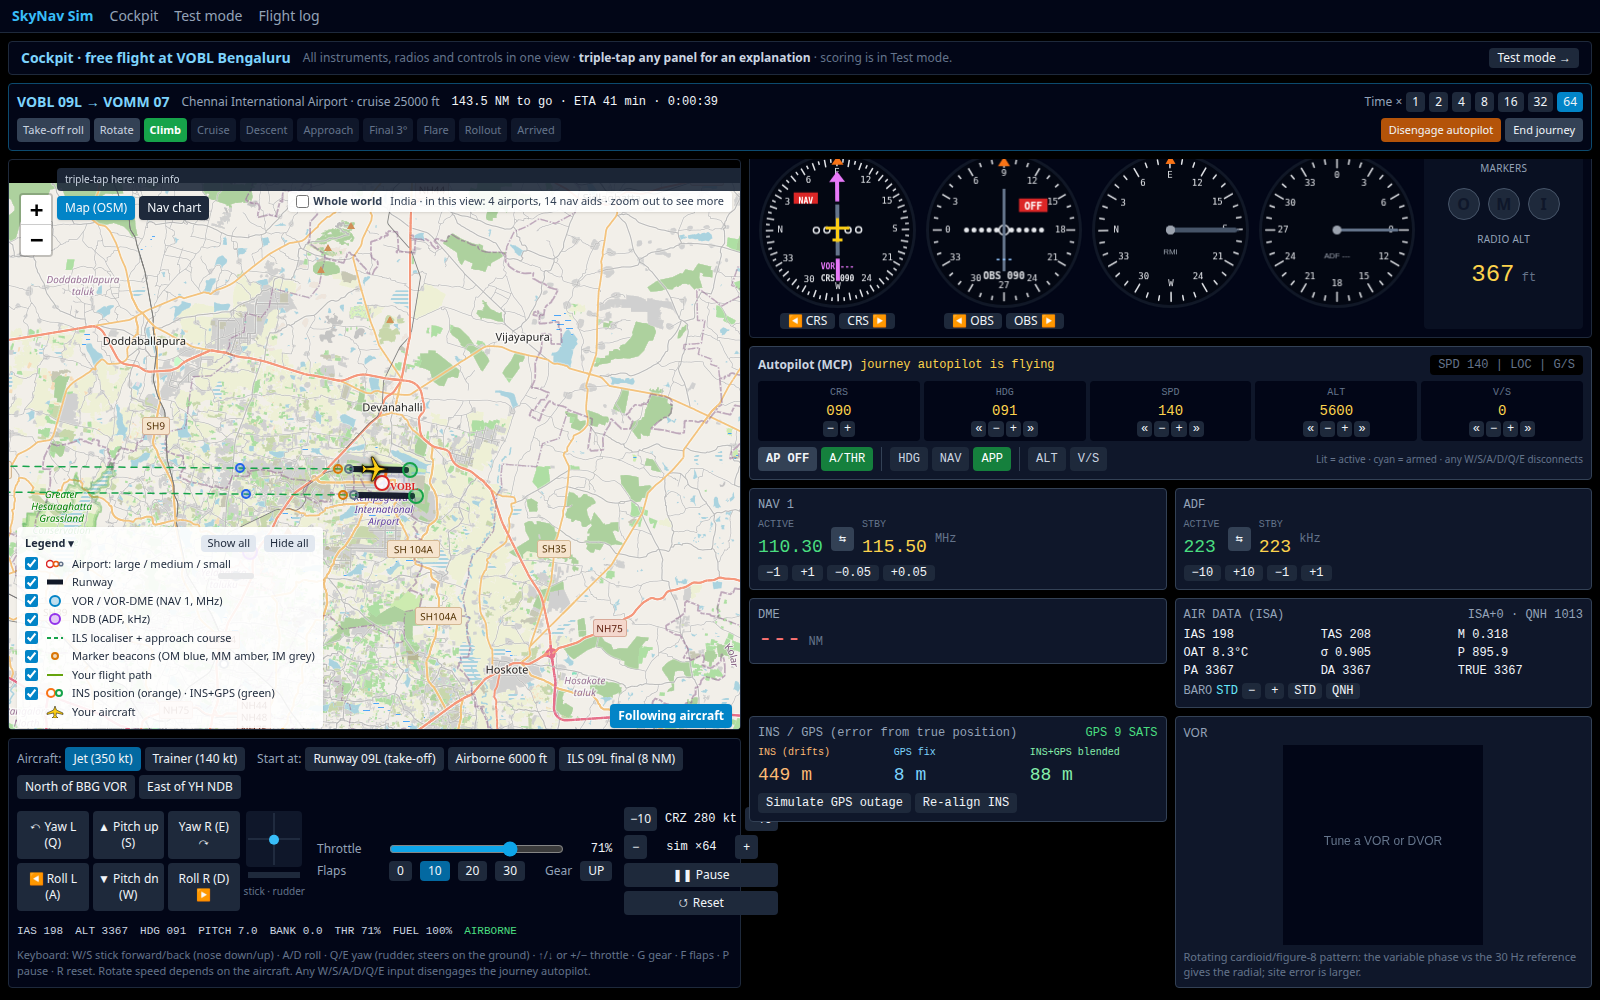
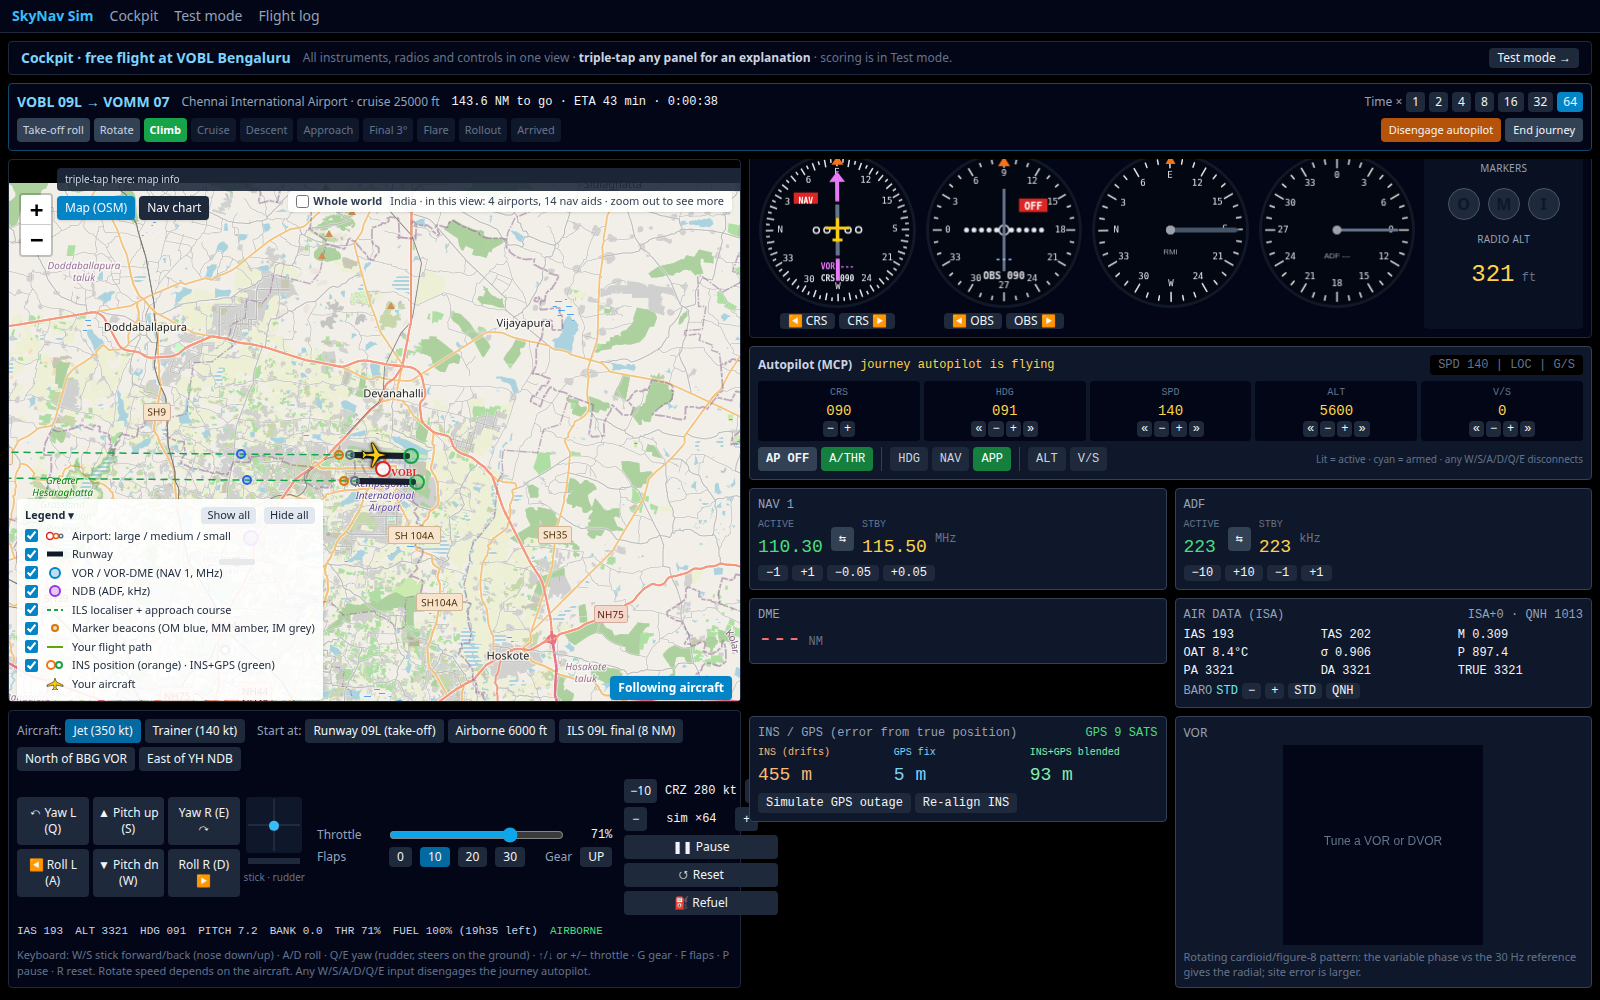
fix(sim): long flights no longer stop — jet/trainer fuel endurance (14 h / 6 h), stall glide instead of freezing in mid-air, auto-refuel (default on) + refuel button, fuel check in the journey planner, Bengaluru→Paris test

Changed region(s): [[0.0, 0.186, 0.5, 0.93]]

diff --git a/app/components/views/ControlPanel.vue b/app/components/views/ControlPanel.vue
@@ -1,5 +1,6 @@
 <script setup lang="ts">
 import { computed } from 'vue'
+import { hoursLeft, stallKt } from '../../sim/aircraft'
 import { useSimStore } from '../../stores/sim'
 import { PRESETS } from '../../sim/presets'
 
@@ -14,6 +15,11 @@ const yoke = [
   { key: 'd', label: 'Roll R (D) ▶', cls: 'col-start-3' },
 ]
 const lc = computed(() => store.world.lastControls)
+const stalled = computed(() => !store.world.ac.onGround && store.world.ac.iasKt <= 0.9 * stallKt(store.world.profile, store.world.ac.flapsDeg) + 0.5)
+const endurance = computed(() => {
+  const h = hoursLeft(store.world.profile, store.world.ac.fuelPct, Math.max(store.world.ac.throttle, 0.05))
+  return Number.isFinite(h) ? `${Math.floor(h)}h${String(Math.round((h % 1) * 60)).padStart(2, '0')}` : '∞'
+})
 const targetSpeed = computed(() => {
   const w = store.world
   if (w.journey && w.auto) return `CRZ ${(w.journey.cruiseIasKt ?? w.profile.speeds.cruise).toFixed(0)}`
@@ -70,6 +76,8 @@ v-for="b in yoke" :key="b.key" :class="b.cls" class="rounded bg-slate-800 px-1 p
         </div>
         <button class="rounded bg-slate-800 px-2 py-1" @click="store.paused = !store.paused">{{ store.paused ? '▶ Resume' : '❚❚ Pause' }}</button>
         <button class="rounded bg-slate-800 px-2 py-1" @click="store.reset()">↺ Reset</button>
+        <button class="rounded px-2 py-1" :class="store.world.autoRefuel ? 'bg-green-800' : 'bg-slate-800'" title="Refill automatically below 15 % fuel" @click="store.toggleAutoRefuel()">⛽ Auto-refuel {{ store.world.autoRefuel ? 'ON' : 'OFF' }}</button>
+        <button v-if="!store.world.autoRefuel" class="rounded bg-slate-800 px-2 py-1" title="Fill the tanks to 100 %" @click="store.refuel()">⛽ Refuel now</button>
       </div>
     </div>
     <div data-test="status" class="flex flex-wrap gap-3 font-mono text-[11px] text-slate-300">
@@ -79,7 +87,8 @@ v-for="b in yoke" :key="b.key" :class="b.cls" class="rounded bg-slate-800 px-1 p
       <span>PITCH {{ store.world.ac.pitchDeg.toFixed(1) }}</span>
       <span>BANK {{ store.world.ac.bankDeg.toFixed(1) }}</span>
       <span>THR {{ (store.world.ac.throttle * 100).toFixed(0) }}%</span>
-      <span>FUEL {{ store.world.ac.fuelPct.toFixed(0) }}%</span>
+      <span :class="store.world.ac.fuelPct < 10 ? 'text-red-400' : ''">FUEL {{ store.world.ac.fuelPct.toFixed(0) }}% ({{ endurance }} left)</span>
+      <span v-if="stalled" class="animate-pulse font-bold text-red-400">STALL</span>
       <span :class="store.world.ac.onGround ? 'text-amber-300' : 'text-green-400'">{{ store.world.ac.onGround ? `ON GROUND${store.world.ac.iasKt < store.world.profile.rotateKt ? ` · rotate at ${store.world.profile.rotateKt} kt` : ''}` : 'AIRBORNE' }}</span>
       <span v-if="store.paused" class="text-amber-400">PAUSED</span>
       <span v-if="store.world.lastTouchdown" :class="store.world.lastTouchdown.result === 'LANDED' ? 'text-green-400' : 'text-red-400'" :title="store.world.lastTouchdown.reasons.join('; ')">

diff --git a/app/sim/flightModel.ts b/app/sim/flightModel.ts
@@ -2,7 +2,7 @@ import { AIRPORT_ELEV_FT, G, KT_TO_FPM, KT_TO_MPS, clamp, deg2rad, rad2deg, wrap
 import type { AircraftState, Atmosphere, Controls, Wind } from '#shared/types'
 import { STANDARD_ATMOSPHERE, casToTas } from '#shared/utils/isa'
 import { applyWind } from './wind'
-import { TRAINER, type AircraftProfile } from './aircraft'
+import { TRAINER, stallKt, type AircraftProfile } from './aircraft'
 
 export const ROTATE_KT = 65
 
@@ -18,7 +18,13 @@ export function step(s: AircraftState, c: Controls, wind: Wind | null, dt: numbe
   let pitch = clamp(s.pitchDeg + c.pitch * 5 * dt, -15, 20)
 
   const target = profile.maxIasKt * throttle
-  const ias = clamp(s.iasKt + clamp(target - s.iasKt, -profile.decelKtPerSec * dt, profile.accelKtPerSec * dt), 0, profile.maxIasKt + 20)
+  let ias = clamp(s.iasKt + clamp(target - s.iasKt, -profile.decelKtPerSec * dt, profile.accelKtPerSec * dt), 0, profile.maxIasKt + 20)
+  // Stall: airborne below 90 % of the stall speed the nose drops and the aircraft glides down at that speed
+  const minAirborne = 0.9 * stallKt(profile, s.flapsDeg)
+  if (!s.onGround && ias < minAirborne) {
+    ias = minAirborne
+    pitch = Math.max(-12, Math.min(pitch, s.pitchDeg) - 4 * dt)
+  }
 
   let onGround = s.onGround
   if (onGround) {
@@ -70,7 +76,7 @@ export function step(s: AircraftState, c: Controls, wind: Wind | null, dt: numbe
     gsKt: g.gsKt,
     trackDeg: g.trackDeg,
     throttle,
-    fuelPct: Math.max(0, s.fuelPct - 0.01 * throttle * dt),
+    fuelPct: Math.max(0, s.fuelPct - (100 / (profile.enduranceHrs * 3600)) * throttle * dt),
     onGround,
   }
 }

diff --git a/app/sim/aircraft.ts b/app/sim/aircraft.ts
@@ -15,6 +15,8 @@ export interface AircraftProfile {
   ifNm: number
   ifHeightFt: number
   minRunwayM: number
+  /** Hours of fuel at full throttle (burn scales with throttle). */
+  enduranceHrs: number
 }
 
 export const JET: AircraftProfile = {
@@ -22,7 +24,7 @@ export const JET: AircraftProfile = {
   maxIasKt: 350, accelKtPerSec: 5, decelKtPerSec: 4, rotateKt: 145, stallCleanKt: 125, gaugeMaxKt: 400,
   climbFpm: 2500, descentFpm: 2000,
   speeds: { climb: 250, cruise: 280, descent: 250, approach: 180, final: 140, flare: 135 },
-  ifNm: 15, ifHeightFt: 4000, minRunwayM: 1800,
+  ifNm: 15, ifHeightFt: 4000, minRunwayM: 1800, enduranceHrs: 14,
 }
 
 export const TRAINER: AircraftProfile = {
@@ -30,10 +32,15 @@ export const TRAINER: AircraftProfile = {
   maxIasKt: 140, accelKtPerSec: 3, decelKtPerSec: 3, rotateKt: 65, stallCleanKt: 55, gaugeMaxKt: 200,
   climbFpm: 1000, descentFpm: 1000,
   speeds: { climb: 110, cruise: 125, descent: 120, approach: 100, final: 85, flare: 75 },
-  ifNm: 12, ifHeightFt: 3000, minRunwayM: 600,
+  ifNm: 12, ifHeightFt: 3000, minRunwayM: 600, enduranceHrs: 6,
 }
 
 export const PROFILES = { jet: JET, trainer: TRAINER } as const
+
+/** Hours of flight left at a given throttle. */
+export function hoursLeft(p: AircraftProfile, fuelPct: number, throttle: number): number {
+  return throttle <= 0 ? Infinity : (fuelPct / 100) * p.enduranceHrs / throttle
+}
 
 export function stallKt(p: AircraftProfile, flapsDeg: number): number {
   return p.stallCleanKt * (1 - 0.3 * Math.min(1, flapsDeg / 30))

diff --git a/app/stores/sim.ts b/app/stores/sim.ts
@@ -177,6 +177,14 @@ export const useSimStore = defineStore('sim', () => {
     if (p.engaged) autoMessage.value = ''
   }
 
+  function toggleAutoRefuel(): void {
+    world.value = { ...world.value, autoRefuel: !world.value.autoRefuel }
+  }
+
+  function refuel(): void {
+    world.value = { ...world.value, ac: { ...world.value.ac, fuelPct: 100 } }
+  }
+
   function setGpsOutage(on: boolean): void {
     world.value = { ...world.value, insgps: { ...world.value.insgps, outage: on, gps: on ? null : world.value.insgps.gps } }
   }
@@ -204,5 +212,5 @@ export const useSimStore = defineStore('sim', () => {
     autoMessage.value = ''
   }
 
-  return { world, paused, timeScale, autoMessage, keys, trail, navCenter, setNavData, setProfile, stepTimeScale, changeSpeed, setAp, setGpsOutage, realignIns, startJourney, engageAuto, disengageAuto, endJourney, load, reset, tick, toggleGear, cycleFlaps, setRadio, setThrottle, setFlaps, holdKey, applyPreset }
+  return { world, paused, timeScale, autoMessage, keys, trail, navCenter, setNavData, setProfile, stepTimeScale, changeSpeed, setAp, setGpsOutage, realignIns, refuel, toggleAutoRefuel, startJourney, engageAuto, disengageAuto, endJourney, load, reset, tick, toggleGear, cycleFlaps, setRadio, setThrottle, setFlaps, holdKey, applyPreset }
 })

diff --git a/app/sim/engine.ts b/app/sim/engine.ts
@@ -50,6 +50,8 @@ export interface World {
   ap: ApState | null
   /** INS error state, GPS measurement error and the blended estimate of the INS error (metres). */
   insgps: InsGps
+  /** Refill the tanks automatically when fuel drops below 15 % (default on). */
+  autoRefuel: boolean
 }
 
 export interface InsGps { ins: InsState; est: [number, number]; gps: [number, number] | null; outage: boolean; seed: number; nextFixMs: number }
@@ -109,6 +111,7 @@ export function createWorld(init: Partial<Omit<World, 'ac' | 'radios'>> & { ac?:
     lastTouchdown: init.lastTouchdown ?? null,
     ap: init.ap ?? null,
     insgps: init.insgps ?? newInsGps(),
+    autoRefuel: init.autoRefuel ?? true,
   }
 }
 
@@ -133,7 +136,8 @@ export function simStep(w: World, c: Controls, dt: number): World {
     ap = o.ap
     controls = { roll: o.roll, pitch: o.pitch, yaw: c.yaw ?? 0, throttle: o.throttle ?? c.throttle }
   }
-  const ac = step(ac0, controls, w.wind, dt, w.atmo, groundElevFt, w.profile)
+  const stepped = step(ac0, controls, w.wind, dt, w.atmo, groundElevFt, w.profile)
+  const ac = w.autoRefuel && stepped.fuelPct < 15 ? { ...stepped, fuelPct: 100 } : stepped
   const r = w.radios
   const nav: Partial<NavOutputs> = {
     ...w.nav,

diff --git a/tests/unit/flightModel.test.ts b/tests/unit/flightModel.test.ts
@@ -68,6 +68,19 @@ describe('flight model', () => {
     const g = runFor({ ...DEFAULT_STATE, iasKt: 20, throttle: 20 / 140 }, { roll: 0, pitch: 0, throttle: 20 / 140, yaw: -1 }, null, 1)
     expect(g.hdgDeg).toBeLessThan(DEFAULT_STATE.hdgDeg - 15)
   })
+  it('F11 fuel: the jet burns 100 % / 14 h at full throttle (≈ 5.7 % per hour at 80 %)', async () => {
+    const { JET } = await import('../../app/sim/aircraft')
+    let st = { ...AIR, iasKt: 280, throttle: 0.8, altFt: 35000 }
+    for (let i = 0; i < 3600; i++) st = step(st, hold(0.8), null, 1, undefined, AIRPORT_ELEV_FT, JET)
+    expect(100 - st.fuelPct).toBeCloseTo((0.8 * 100) / 14, 1)
+  })
+  it('F12 no thrust in the air: speed stops at the stall limit and the aircraft glides down (never freezes)', () => {
+    let st = { ...AIR, iasKt: 120, throttle: 0, fuelPct: 0 }
+    for (let i = 0; i < 60 * 60; i++) st = step(st, hold(0), null, 1 / 60)
+    expect(st.iasKt).toBeGreaterThan(45)
+    expect(st.vsFpm).toBeLessThan(-300)
+    expect(st.altFt).toBeLessThan(AIR.altFt - 300)
+  })
   it('takes off at full throttle with back pressure', () => {
     let s = runFor(DEFAULT_STATE, hold(1), null, 25)
     s = runFor(s, { roll: 0, pitch: 1, throttle: 1 }, null, 2)

diff --git a/app/components/views/explanations.ts b/app/components/views/explanations.ts
@@ -139,7 +139,7 @@ export const EXPLANATIONS: Record<string, Explanation> = {
     what: 'Everything you use to fly: stick, rudder, throttle, flaps, gear and start positions.',
     read: ['Stick box: blue dot = stick position (yours or the autopilot\'s); orange bar = rudder.', 'Throttle %: sets the target airspeed; the status line shows IAS, altitude, heading, pitch and bank.'],
     how: 'Take-off: full throttle, wait for the rotate speed, then pull back (S). Land by flying a 3° approach and reducing power just before touchdown.',
-    controls: 'W/S stick fwd/back · A/D roll · Q/E yaw · ↑/↓ or +/− throttle · G gear · F flaps · P pause · R reset.',
+    controls: 'W/S stick fwd/back · A/D roll · Q/E yaw · ↑/↓ or +/− throttle · G gear · F flaps · P pause · R reset · ⛽ Refuel. FUEL shows the time left at the current throttle (jet ≈ 14 h at full power, trainer ≈ 6 h). Below the stall speed the nose drops and the aircraft glides down (STALL).',
   },
   journey: {
     title: 'Journey (automatic flight)',

diff --git a/app/components/views/JourneyPanel.vue b/app/components/views/JourneyPanel.vue
@@ -35,6 +35,10 @@ const distance = computed(() => (plan.value ? journeyDistanceNm(plan.value) : 0)
 const problem = computed(() => {
   if (!from.value || !to.value) return 'pick both airports'
   if (from.value.airport.ident === to.value.airport.ident) return 'choose a different destination'
+  const prof = store.world.profile
+  const hours = distance.value / (prof.id === 'jet' ? 430 : 125) + 0.5
+  const available = (store.world.ac.fuelPct / 100) * prof.enduranceHrs / (prof.speeds.cruise / prof.maxIasKt)
+  if (!store.world.autoRefuel && hours > available) return `not enough fuel: about ${hours.toFixed(1)} h needed, ${available.toFixed(1)} h available (Refuel, or pick a closer airport)`
   const min = store.world.profile.minRunwayM
   for (const [label, p] of [['departure', from.value], ['destination', to.value]] as const) {
     if (p.runway.lengthM < min) return `${label} runway ${p.runway.ident} is ${p.runway.lengthM} m; the ${store.world.profile.id} needs ${min} m`

diff --git a/tests/unit/autoflight.test.ts b/tests/unit/autoflight.test.ts
@@ -47,6 +47,17 @@ describe('automatic journey', () => {
   })
 })
 
+describe('long-haul journey', () => {
+  it('JY3 Bengaluru (VOBL 09L) → Paris CDG (LFPG 08L), 4300 NM, arrives with fuel left', () => {
+    const cdg: JourneyEnd = { ident: 'LFPG', name: 'Paris CDG', elevationFt: 392, runway: { ident: '08L', headingDeg: 85.3, lat: 48.99570083618164, lon: 2.552740097045898, lengthM: 4215 } }
+    const r = fly({ from: VOBL, to: cdg, cruiseAltFt: 35000 }, 16 * 3600, 0.25)
+    expect(r.phases.at(-1)).toBe('ARRIVED')
+    expect(r.world.ac.fuelPct).toBeGreaterThan(20)
+    expect(Math.abs(r.touchdown!.xteM)).toBeLessThan(30)
+    expect(r.seconds / 3600).toBeLessThan(11)
+  })
+})
+
 describe('journey cruise speed override', () => {
   it('uses cruiseIasKt in the cruise phase', async () => {
     const { autoflightStep } = await import('../../app/sim/autoflight')

diff --git a/tests/unit/engine.test.ts b/tests/unit/engine.test.ts
@@ -126,3 +126,13 @@ describe('engine INS/GPS', async () => {
     expect(blendM).toBeLessThan(30)
   })
 })
+
+describe('auto-refuel', async () => {
+  const { air } = await import('./helpers/fixtures')
+  it('refills to 100 % below 15 % when on, and not when off', () => {
+    const on = simStep(createWorld({ ac: air({ fuelPct: 14.99 }) }), { roll: 0, pitch: 0, throttle: 0.5 }, 1)
+    expect(on.ac.fuelPct).toBe(100)
+    const off = simStep(createWorld({ ac: air({ fuelPct: 14.99 }), autoRefuel: false }), { roll: 0, pitch: 0, throttle: 0.5 }, 1)
+    expect(off.ac.fuelPct).toBeLessThan(15)
+  })
+})
